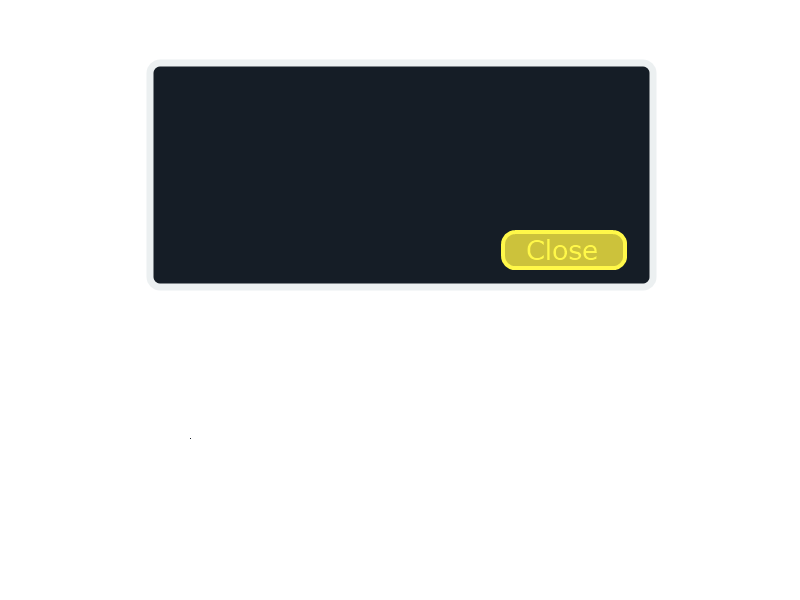
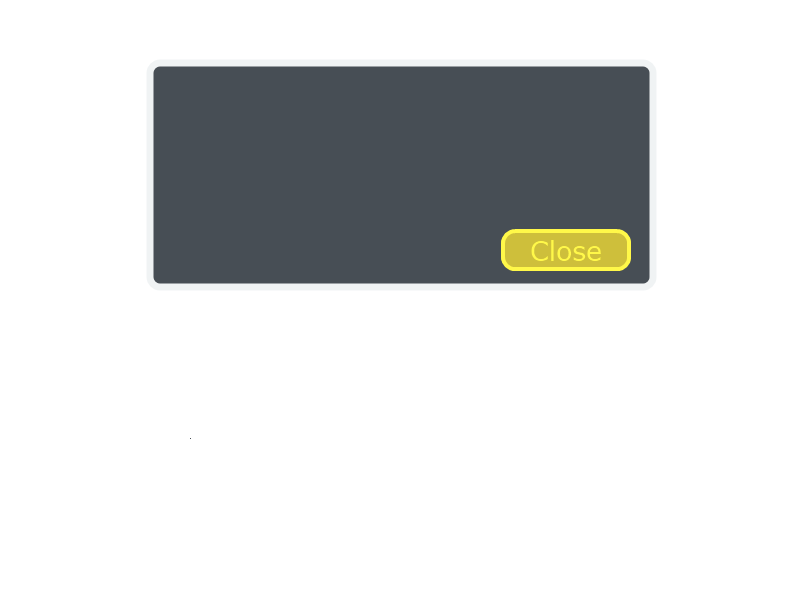
added transparency to event windows and added high scores functionality

Changed region(s): [[0.1875, 0.09, 0.8125, 0.48]]

diff --git a/src/main/java/edu/asu/cst316/GameMain.java b/src/main/java/edu/asu/cst316/GameMain.java
@@ -71,6 +71,7 @@ public class GameMain extends BasicGameState{
 	boolean	defaultImage = true; 
 	boolean	spinAnimation = false;
 	boolean showNotification = false;
+	boolean showEventWindow = false;
 	boolean cardGenerated = false;
 	boolean cardSelected = false;
 	
@@ -120,7 +121,6 @@ public class GameMain extends BasicGameState{
 		yPosition > 20){
 			gameboard.movePlayer(1);
 			updateBoardView(gameboard.getCurrentSpace().getPosX(), gameboard.getCurrentSpace().getPosY());
-			//sbg.enterState(3);
 		}
 		
 		if(input.isMouseButtonDown(0) &&
@@ -174,7 +174,12 @@ public class GameMain extends BasicGameState{
 		}
 		
 		if(updatePlayer){
-			gameboard.movePlayer(spinNum);
+			for(int i = 0; i < spinNum; i++){
+				gameboard.movePlayer(1);
+				if( "fork".equals(gameboard.getCurrentSpace().getType()) ){
+					i = spinNum;
+				}
+			}
 			updateBoardView(gameboard.getCurrentSpace().getPosX(), gameboard.getCurrentSpace().getPosY());
 			updatePlayer = false;
 			
@@ -260,6 +265,9 @@ public class GameMain extends BasicGameState{
 		if(showNotification){
 			g.drawImage(notification, 0, 0);
 		}
+		if(showEventWindow){
+			g.drawImage(eventWindow, 0, 0);
+		}
 		
 		//declare the images used
 		wheel = new Image("res/spinwheeldefault.png");
@@ -282,16 +290,16 @@ public class GameMain extends BasicGameState{
 		
 		//if the wheel is clicked do what we need it to do
 		if (spinClicked){
-				defaultImage = false;
-				spinClicked = false;
-				spinNum = getSpinNum(sNum);
-				spinAnimation = true;
-			}
+			defaultImage = false;
+			spinClicked = false;
+			spinNum = getSpinNum(sNum);
+			spinAnimation = true;
+		}
 		
 		//once the spin is clicked do the animation
 		if (spinClicked == true){
 			defaultImage = false;
-			spinClicked =false;
+			spinClicked = false;
 			spinNum = getSpinNum(sNum);
 			System.out.println(spinNum);
 			spinAnimation = true;
@@ -303,11 +311,11 @@ public class GameMain extends BasicGameState{
 		//animation is complete now set the number spun	
 		} else{
 
-		wheelSpinning.setRotation(360-(60*(spinNum-1)));
-		g.drawImage(wheelSpinning, 329, 415);
-		g.drawImage(spinFlipper, 460, 420);
-		spinAnimation = false;
-		spinClicked = false;
+			wheelSpinning.setRotation(360-(60*(spinNum-1)));
+			g.drawImage(wheelSpinning, 329, 415);
+			g.drawImage(spinFlipper, 460, 420);
+			spinAnimation = false;
+			spinClicked = false;
 		} // end else 
 		
 		if (mouseOverSpin){

diff --git a/src/main/java/edu/asu/cst316/highscore/HighScores.java b/src/main/java/edu/asu/cst316/highscore/HighScores.java
@@ -1,5 +1,65 @@
 package main.java.edu.asu.cst316.highscore;
 
+import java.io.FileInputStream;
+import java.io.FileOutputStream;
+import java.io.IOException;
+import java.io.ObjectInputStream;
+import java.io.ObjectOutputStream;
+import java.util.ArrayList;
+import java.util.Collections;
+import java.util.List;
+import java.util.Comparator;
+
 public class HighScores {
 
+	List<PlayerRecord> highScoreList;
+	
+	//Read the high score list to a file
+	@SuppressWarnings("unchecked")
+	public void deSerialize(){
+		try{
+			FileInputStream fis = new FileInputStream("highscores.list");
+			ObjectInputStream oin = new ObjectInputStream(fis);
+			highScoreList = (List<PlayerRecord>) oin.readObject();
+			oin.close();
+			fis.close();
+		}catch(IOException e){
+		     e.printStackTrace();
+		}catch(ClassNotFoundException e){
+		     e.printStackTrace();
+		}
+	}
+	
+	
+	//Write the high score list to a file
+	public void serialize(){
+		try{
+			FileOutputStream fileOut = new FileOutputStream("highscores.list");
+			ObjectOutputStream out = new ObjectOutputStream(fileOut);
+			out.writeObject(highScoreList);
+			out.close();
+			fileOut.close();
+		}catch(IOException e){
+		     e.printStackTrace();
+		}
+	}
+	
+	//Start new high score list
+	public void init(){
+		highScoreList = new ArrayList<PlayerRecord>();
+	}
+	
+	//Record the player's score and then sort the list by the player's score
+	public void addPlayerRecord(String name, int score){
+		PlayerRecord currentPlayer = new PlayerRecord();
+		currentPlayer.setPlayerName(name);
+		currentPlayer.setScore(score);
+		highScoreList.add(currentPlayer);
+		Collections.sort(highScoreList, new Comparator<PlayerRecord>() {
+			@Override
+			public int compare(PlayerRecord pr1, PlayerRecord pr2) {
+				return  pr1.getScore() > pr2.getScore() ? 1 : -1;
+			}
+		});
+	}
 }

diff --git a/src/main/java/edu/asu/cst316/highscore/PlayerRecord.java b/src/main/java/edu/asu/cst316/highscore/PlayerRecord.java
@@ -1,0 +1,29 @@
+package main.java.edu.asu.cst316.highscore;
+
+public class PlayerRecord {
+	private String playerName;
+	private int score;
+	
+	public PlayerRecord(){
+	
+	}
+	public PlayerRecord(String playerName, int score){
+		this.playerName = playerName;
+		this.score = score;
+	}
+	
+	public String getPlayerName(){
+		return playerName;
+	}
+	public int getScore(){
+		return score;
+	}
+	
+	public void setPlayerName(String playerName){
+		this.playerName = playerName;
+	}
+	public void setScore(int score){
+		this.score = score;
+	}
+}
+
